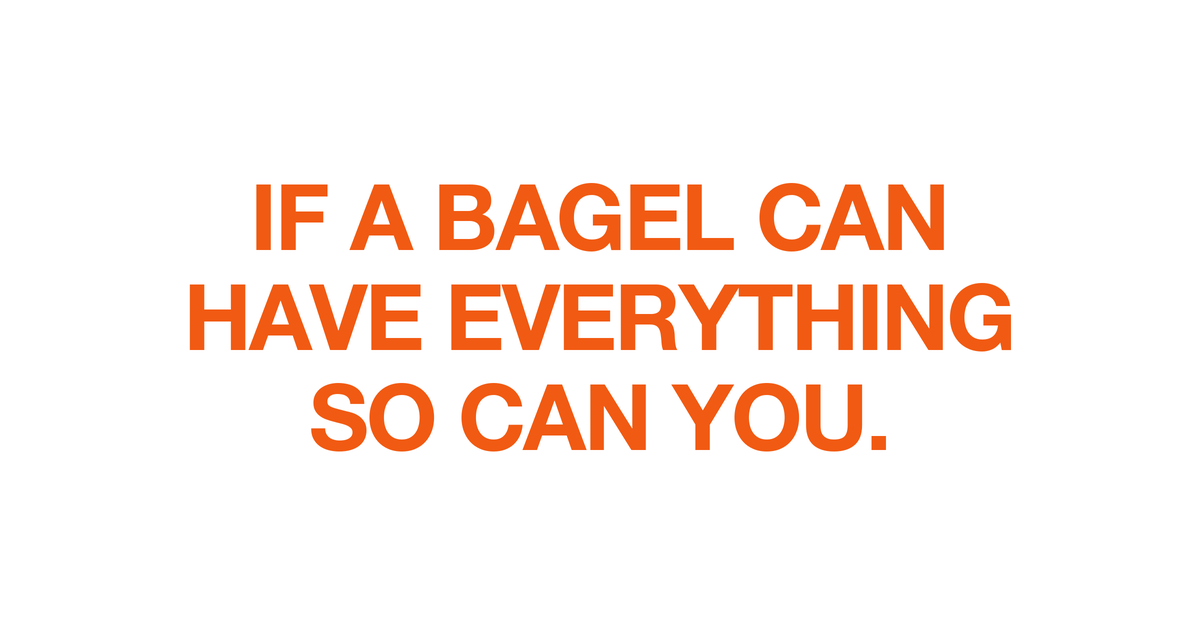
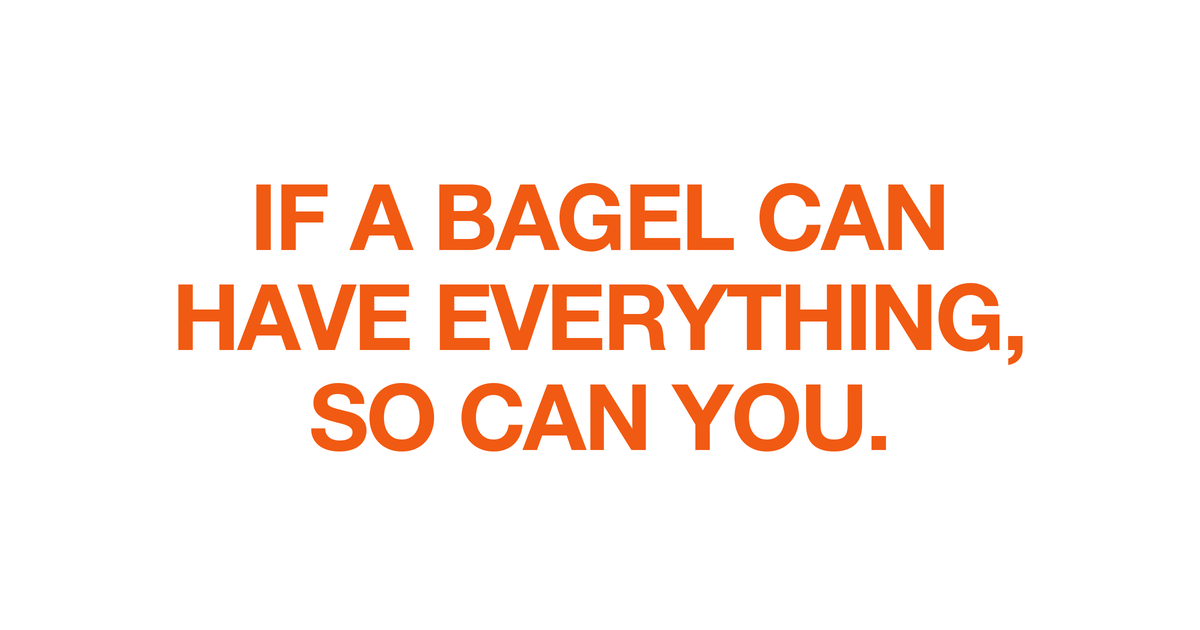
Add comma to the bagel quote share graphic

Changed region(s): [[0.1233, 0.4524, 0.8633, 0.573]]

diff --git a/scripts/build.py b/scripts/build.py
@@ -244,7 +244,7 @@ def social_metadata(site_url, site_name, title, description, image_name, path=""
         return ""
     base = site_url.rstrip("/") + "/"
     image_url = urljoin(base, image_name)
-    image_alt = "IF A BAGEL CAN HAVE EVERYTHING SO CAN YOU. — centered orange lettering on white"
+    image_alt = "IF A BAGEL CAN HAVE EVERYTHING, SO CAN YOU. — centered orange lettering on white"
     properties = {
         "og:title": title, "og:site_name": site_name, "og:type": "website",
         "og:url": urljoin(base, path), "og:description": description,

diff --git a/README.md b/README.md
@@ -75,7 +75,7 @@ The header fixes Work in the top-left corner, with CV beside Contact in the top-
 
 The footer uses a bold “Get in touch” heading and a large orange email, with tight spacing in Helvetica Neue. Edit `site.contact_heading` and `site.email` in the content file to change that copy. The email scales down on phones to remain readable without horizontal scrolling. The JK. header logo and About navigation are removed; project pages retain their Selected work and previous/next links.
 
-The favicon is a plain `#F15A12` circle. A 32px PNG fallback and 180px Apple touch icon also use that circle. Every page provides Open Graph and social-card metadata in its static HTML, using the same 1200 × 630 PNG with “IF A BAGEL CAN HAVE EVERYTHING SO CAN YOU.” in centered, all-caps orange Helvetica Neue on white. The homepage's preview title stays “Graphic Designer,” editable as `site.share_title`; the website domain is also preserved in the metadata. Project links keep their project titles. The build versions the icons and share-image URL when their contents change. Edit the share SVG and export the PNG together when changing the artwork; its Helvetica Neue lettering is rendered into the image, and no font file is distributed. Preview apps choose the final card layout; the real Messages preview can be checked after publishing.
+The favicon is a plain `#F15A12` circle. A 32px PNG fallback and 180px Apple touch icon also use that circle. Every page provides Open Graph and social-card metadata in its static HTML, using the same 1200 × 630 PNG with “IF A BAGEL CAN HAVE EVERYTHING, SO CAN YOU.” in centered, all-caps orange Helvetica Neue on white. The homepage's preview title stays “Graphic Designer,” editable as `site.share_title`; the website domain is also preserved in the metadata. Project links keep their project titles. The build versions the icons and share-image URL when their contents change. Edit the share SVG and export the PNG together when changing the artwork; its Helvetica Neue lettering is rendered into the image, and no font file is distributed. Preview apps choose the final card layout; the real Messages preview can be checked after publishing.
 
 The bio uses responsive type (about 42px at a 1280px desktop width, 26px on a phone), `-0.03em` letter spacing (−30 tracking), and 95% line height. Inspiration previews are image-only, 100px square, and follow the mouse while it is over a video link. Their position is updated once per animation frame and kept inside the viewport. Keyboard focus anchors the image beside the link; Escape dismisses it. The build creates 200px WebP thumbnails for sharp previews without loading the full-size originals.
 
